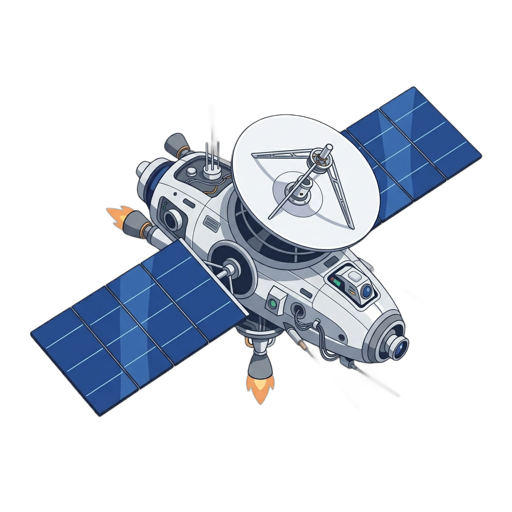
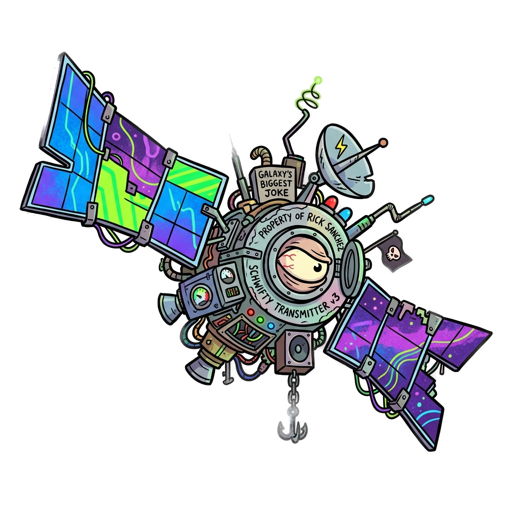
feat(word-tower): all bg graphics redrawn Rick-and-Morty caricature style + 3 new
Founder: make graphics match the game + look cool, Rick-and-Morty caricature.
Regenerated all 20 props in a bold wobbly-outline, vibrant, wacky-sci-fi style
(clean alpha-matting rembg — no white bg), and added portal (950m), goofy alien
(1450m) and a spaceship (2100m) as cool high-altitude surprises.

diff --git a/fe-next/lib/wordTower/parallaxProps.ts b/fe-next/lib/wordTower/parallaxProps.ts
@@ -70,6 +70,10 @@ export const WORD_TOWER_PROPS: ParallaxProp[] = [
   { id: 'pizza',      src: '/images/word-tower/wt-pizza.png',      atM: 700,  topPct: 22, xPct: 70, width: 100, depth: 1.05, rangeM: 70 },
   { id: 'cow',        src: '/images/word-tower/wt-cow.png',        atM: 1130, topPct: 26, xPct: 28, width: 112, depth: 0.9,  rangeM: 110 },
   { id: 'toaster',    src: '/images/word-tower/wt-toaster.png',    atM: 1700, topPct: 24, xPct: 66, width: 104, depth: 1.0,  rangeM: 150 },
+  // Cool sci-fi surprises up high.
+  { id: 'portal',     src: '/images/word-tower/wt-portal.png',     atM: 950,  topPct: 28, xPct: 24, width: 110, depth: 0.8,  rangeM: 90 },
+  { id: 'alien',      src: '/images/word-tower/wt-alien.png',      atM: 1450, topPct: 22, xPct: 70, width: 100, depth: 0.95, rangeM: 130 },
+  { id: 'spaceship',  src: '/images/word-tower/wt-spaceship.png',  atM: 2100, topPct: 26, xPct: 30, width: 120, depth: 0.9,  rangeM: 180 },
 ];
 
 /**
